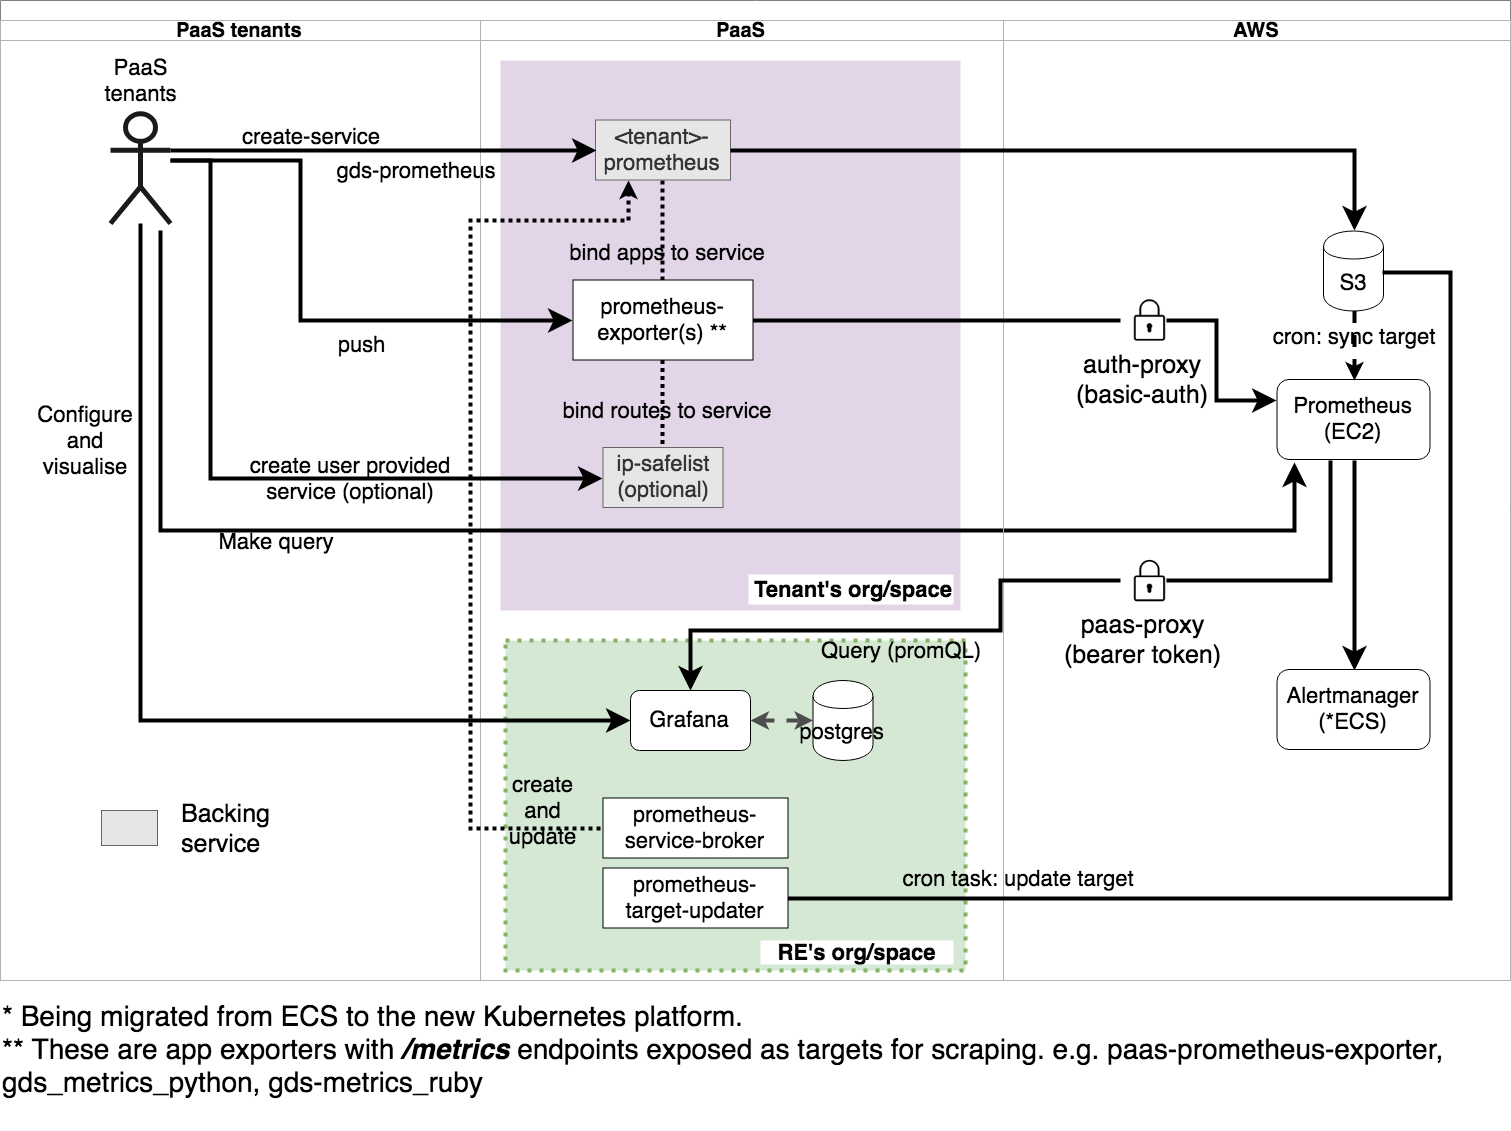
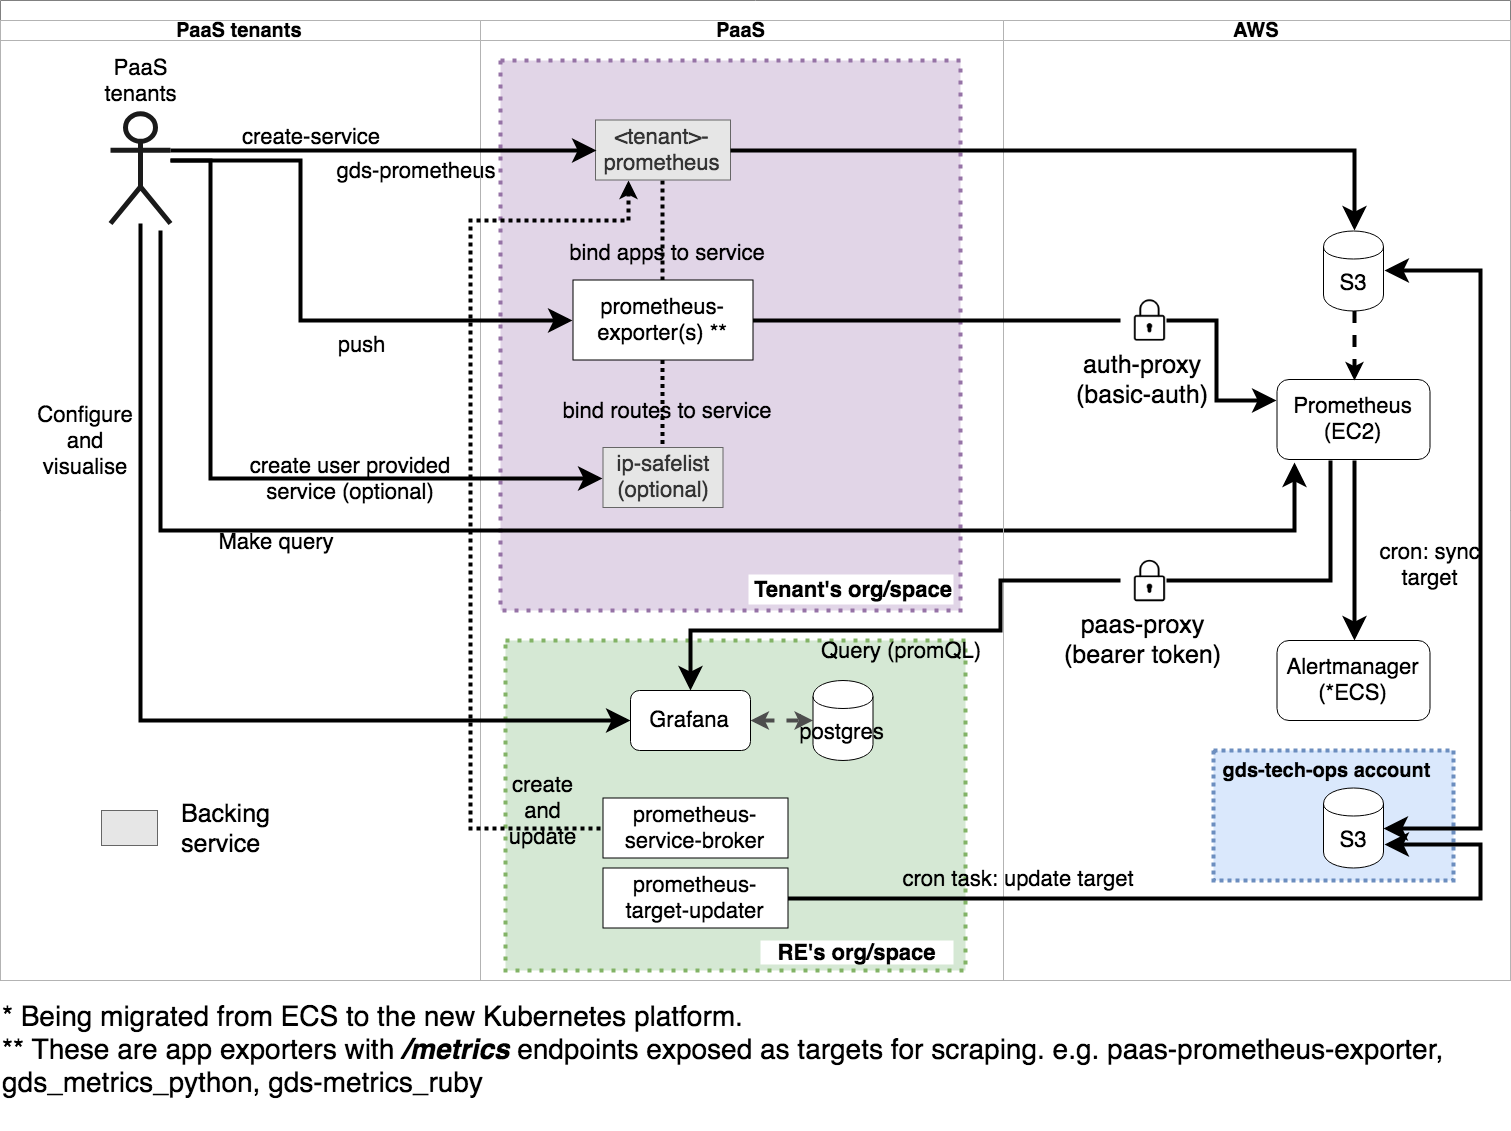
Address PR comments and updated diagram

Changed region(s): [[0.7776, 0.2166, 0.9954, 0.8046]]

diff --git a/source/documentation/prometheus-for-gds-paas/index.md b/source/documentation/prometheus-for-gds-paas/index.md
@@ -14,17 +14,17 @@ Figure 1: Architecture for components hosted on AWS
 
 - Three instances of Prometheus, Alertmanager are deployed over three AWS availability zones in Ireland (eu-west-1) for resilience and high availability (figure 1).
 - URLs for these instances are:
-  - Prometheus: [prom-1][prom-2][prom-3]
-  - Alertmanager: [alert-1][alert-2][alert-3]
-  - Grafana: [grafana]
+  - Prometheus: [[prom-1](https://prom-1.monitoring.gds-reliability.engineering/)][[prom-2](https://prom-2.monitoring.gds-reliability.engineering/)][[prom-3](https://prom-3.monitoring.gds-reliability.engineering/)]
+  - Alertmanager: [[alert-1](https://alerts-1.monitoring.gds-reliability.engineering/#/alerts)][[alert-2](https://alerts-2.monitoring.gds-reliability.engineering/#/alerts)][[alert-3](https://alerts-3.monitoring.gds-reliability.engineering/#/alerts)]
+  - [[Grafana](https://grafana-paas.cloudapps.digital/?orgId=2)]
 - Each Prometheus instance has its own persistent EBS storage. Each instance is independent to each other and scrapes metrics separately.
 - The three Prometheis are not load-balanced and each have their own public URL, routed by the ALB according to the request URL (prom-1, prom-2, prom-3)
 - The ALB for Alertmanager routes traffic to the corresponding Alertmanager according to the request URL. The inbound requests are also restricted to office IP addreses only. It does not load-balance the traffic.
 - The alerts are configured and generated in Prometheus.
 - Each Prometheus routes their alerts to all three of the Alertmanagers.
 - The meshing of Alertmanagers (to remove duplication of alerts) does not work on ECS. This is because ECS only supports one port per instance and Alertmanagers require two ports: one port for meshing and one port for alerting.
-- One instance of Grafana and a Postgres database (small-9.5) is deployed on GOV.UK PaaS. It is uses prom-1 as a data source.
-- Configuration for Prometheus and Alertmanager is provided in YAML files and stored in an S3 bucket.
+- One instance of Grafana and a Postgres database (small-9.5) is deployed on GOV.UK PaaS. It uses prom-1 as a data source.
+- Configurations for Prometheus and Alertmanager are provided in YAML files and are stored in an S3 bucket.
 - The plan is to migrate Alertmanager from AWS ECS to GDS new Kubernetes platform.
 
 
@@ -59,22 +59,23 @@ Figure 3: Interaction between PaaS tenants and Prometheus hosted on PaaS and AWS
 Nginx is set up infront of Prometheus and acts as an ingress/egress request proxy. It is composed of two elements:
 
 #### paas-proxy:
-A forward proxy is used for the traffic from Prometheus to PaaS with two purposes.
+A forward proxy is used for the traffic from Prometheus to PaaS for two purposes.
 
 - **Custom header insertion**:
 custom headers X-CF-APP-INSTANCE, which is a CloudFoundry-specific header which requests a specific instance ID to scrape, is inserted to requests from Prometheus to PaaS so that Prometheus can get metrics from each instance of an app - [EC2 Nginx config](https://github.com/alphagov/prometheus-aws-configuration-beta/blob/master/terraform/modules/prom-ec2/prometheus/cloud.conf#L66).
 
 - **Bearer token**:
-set to be CloudFoundry app guid, is used to authorise the connection to the /metrics endpoint for metrics exporters running on PaaS - [EC2 Nginx config](https://github.com/alphagov/prometheus-aws-configuration-beta/blob/master/terraform/modules/prom-ec2/prometheus/cloud.conf#L67).
+Set to be CloudFoundry app guid, auth-proxy is used to authorise the connection to the /metrics endpoint for metrics exporters running on PaaS - [EC2 Nginx config](https://github.com/alphagov/prometheus-aws-configuration-beta/blob/master/terraform/modules/prom-ec2/prometheus/cloud.conf#L67).
 
 #### auth-proxy
-TO DO
+Basic auth is used to protect inbound access to Prometheus [EC2 Nginx config] (https://github.com/alphagov/prometheus-aws-configuration-beta/blob/master/terraform/modules/prom-ec2/prometheus/cloud.conf#L83-L110), unless the origin of the inbound requests are from office IPs. 
+
 
 ### AWS session manager
 We use AWS session manager for accessing AWS node instances via the [systems manager console](https://eu-west-1.console.aws.amazon.com/systems-manager/home?region=eu-west-1#) (login to aws first) or CLI. We do this instead of sshing into the node and do not need a bastion host in our architecture.
 
 ### IP safelist for PaaS routes
-PaaS tenants can optionally deploy a [IP safelist service](https://docs.cloud.service.gov.uk/deploying_services/route_services/) on PaaS, which is based on [PaaS route service](https://docs.cloud.service.gov.uk/deploying_services/route_services/#route-services) that provides a full proxy for application routes, e.g. [prometheus-metric-exporter](https://github.com/alphagov/paas-prometheus-exporter) that are bound to it. PaaS tenants can use the route service to provide an IP restriction layer before web requests hit the applications running on PaaS.
+PaaS tenants can optionally deploy an [IP safelist service](https://docs.cloud.service.gov.uk/deploying_services/route_services/) on PaaS, which is based on [PaaS route service](https://docs.cloud.service.gov.uk/deploying_services/route_services/#route-services) that provides a full proxy for application routes for applications on PaaS, e.g. [prometheus-metric-exporter](https://github.com/alphagov/paas-prometheus-exporter) that are bound to it. PaaS tenants can use the route service to provide an IP restriction layer before web requests hit the applications running on PaaS.
 
 ### Logging, monitoring and alerting
 The following apps and SaaS are used for monitoring, logging and alerting for the prometheus-for-PaaS.
@@ -111,8 +112,8 @@ Zendesk is used for receiving non-interrupting alerts and Pagerduty is used to r
 
 | Repositories | Description |
 | -------- | -------- |
-|[paas-prometheus-exporter](https://github.com/alphagov/paas-prometheus-exporter)| Expose container-level app metrics and some backing service metrics for the org that this exporter has access read right to. It reads the metrics from PaaS Doppler component.|
-|[gds\_metrics\_dropwizard](https://github.com/alphagov/gds_metrics_dropwizard)|Expose apps metrics developed with Dropwizard.|
+|[paas-prometheus-exporter](https://github.com/alphagov/paas-prometheus-exporter)| Expose container-level app metrics and some backing service metrics for the org that this exporter has read-access to. It reads the metrics from PaaS Doppler component.|
+|[gds\_metrics\_dropwizard](https://github.com/alphagov/gds_metrics_dropwizard)|Expose apps metrics for Dropwizard based apps.|
 |[gds_metrics_python](https://github.com/alphagov/gds_metrics_python)|Expose app metrics for Python based apps|
 |[gds_metrics_ruby](https://github.com/alphagov/gds_metrics_ruby)|Expose app metrics for Ruby based apps|
 
@@ -127,8 +128,8 @@ Zendesk is used for receiving non-interrupting alerts and Pagerduty is used to r
 
 | Repositories | Description |
 | -------- | -------- |
-| [re-team-manual](https://re-team-manual.cloudapps.digital/)     | Team manual for internal use, including but not limited to rituals, incident process and runbooks.     |
-|[reliability-engineering](https://github.com/alphagov/reliability-engineering)|Maintain the [metrics and logging](https://reliability-engineering.cloudapps.digital/monitoring-alerts.html#metrics-and-alerting) section of the reliability engineering manual. |
+| [re-team-manual](https://re-team-manual.cloudapps.digital/)     | Team manual for internal use, including but not limited to team rituals, incident process and runbooks.     |
+|[reliability-engineering](https://github.com/alphagov/reliability-engineering)|The team maintain the [metrics and logging](https://reliability-engineering.cloudapps.digital/monitoring-alerts.html#metrics-and-alerting) section of the reliability engineering manual. |
 
 ## Access infrastructure
 
